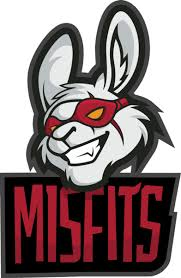
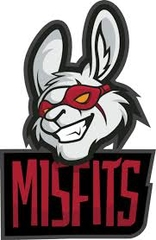
'***'

diff --git a/my interres.html b/my interres.html
@@ -38,17 +38,31 @@
   </nav>
 <div class="container">
   <h1>Мої зацікавлення</h1>
-  <div class="jumbotron">
-            <img src="./images/North.png" width="200" height="200">
-            <img src="./images/697v5pz4c9rvyvmw8hx4.gif" width="200" height="200">
-            <img src="./images/Natusvincerelogo.jpg" width="200" height="200">
-            <img src="./images/astralis.png" width="200" height="200">
-            <img src="./images/VP.png" width="200" height="200">
-            <img src="./images/SpaceS.png" width="200" height="200">
-            <img src="./images/MISFITS.jpg" width="200" height="200">
-            <img src="./images/images.jpg" width="200" height="200">
-            <img src="./images/G2.jpg" width="200" height="200">
-            <img src="./images/FAZE.png" width="200" height="200">
+  <div class="jumbotron hobbi">
+    <div class="row">
+      <div class="col-md-4">
+        <img src="./images/north.jpg" class="img-responsive">
+      </div>
+      <div class="col-md-4 text-center" >
+          <img src="./images/g2.jpg" class="img-responsive">
+        </div>
+      <div class="col-md-4 text-center" >
+        <img src="./images/navi.jpg" class="img-responsive">
+      </div>
+    </div>
+    <div class="row">
+      <div class="col-md-4">
+        <img src="./images/astralis.jpg" class="img-responsive">
+      </div>
+      <div class="col-md-4 text-center" >
+          <img src="./images/spases.jpg" class="img-responsive">
+        </div>
+      <div class="col-md-4 text-center" >
+        <img src="./images/misfits.jpg" class="img-responsive">
+      </div>
+    </div>
+  </div>
+  </div>
   </div>
 </body>
 </html>

diff --git a/profile.html b/profile.html
@@ -7,7 +7,6 @@
   <meta name="viewport" content="width=device-width, initial-scale=1.0">
   <meta http-equiv="X-UA-Compatible" content="ie=edge">
   <title>Homework</title>
-  <link rel="stylesheet" href="style.css">
   <link rel="stylesheet" href="https://maxcdn.bootstrapcdn.com/bootstrap/3.3.7/css/bootstrap.min.css">
 
   <!-- jQuery library -->
@@ -39,8 +38,8 @@
 <div class="container">
   <h1>Профіль</h1>
   <div class="jumbotron">
-    <h1>VovaGrigorev</h1>
-    <p>Lorem ipsum dolor sit amet, consectetur adipisicing elit, sed do eiusmod tempor incididunt ut labore et dolore magna aliqua. Ut enim ad minim veniam, quis nostrud exercitation ullamco laboris nisi ut aliquip ex ea commodo consequat. Duis aute irure dolor in reprehenderit in voluptate velit esse cillum dolore eu fugiat nulla pariatur. Excepteur sint occaecat cupidatat non proident, sunt in culpa qui officia deserunt mollit anim id est laborum.</p>
+    <h1>Vova Grigorev</h1>
+    <p>Пам'ятаю в дитинстві я вдарився головою з тих пір я не відчуваю волосся.</p>
   </div>
 </body>
 </html>

diff --git a/contakt.html b/contakt.html
@@ -7,7 +7,6 @@
   <meta name="viewport" content="width=device-width, initial-scale=1.0">
   <meta http-equiv="X-UA-Compatible" content="ie=edge">
   <title>Homework</title>
-  <link rel="stylesheet" href="style.css">
   <link rel="stylesheet" href="https://maxcdn.bootstrapcdn.com/bootstrap/3.3.7/css/bootstrap.min.css">
 
   <!-- jQuery library -->
@@ -39,9 +38,16 @@
 <div class="container">
   <h1>Контакти</h1>
   <div class="jumbotron">
-    <img src="./images/lol.png" height="130" width="130">
-    <p>skype: I dont know my skype(((</p>
-    <p>tel:0972281337</p>
+    <div class="row">
+      <div class="col-md-4 col-sm-4 col-xs-12">
+    <img src="./images/lol.png" class="img-rounded img-responsive" height="200" width="200">
+  </div>
+  <div class="col-md-8 col-sm-8 col-xs-12">
+    <img src="./images/xex.png" width="15" height="15">  
+    <a class="lol">skype:I dont know my skype(((</a>
+    <br>
+    <img src="./images/xx.png" width="15" height="15">
+    <a class="kek">tel:0972281337</a>
   </div>
 </body>
 </html>

diff --git a/style.css b/style.css
@@ -1,41 +1,3 @@
-span {
-  width: 50%;
-  height: 50%;
-}
-div.image_gallery {
-    margin: 0 auto;
-    width: 1000px;
-    text-align: center;
-    max-width: 90%;
-    min-width: 500px;
-}
-img {
-    float: left;
-    max-width: 31%;
-
-    padding: 1%;
-}
-@media screen and (max-width: 768px) {
-    div.image_gallery {
-        min-width: 320px;
-    }
-    img {
-        max-width: 48%;
-        height: auto;
-        padding: 1%;
-    }
-}
-@media screen and (max-width: 480px) {
-    div.image_gallery {
-        width: 320px;
-        min-width: 320px;
-    }
-    img {
-        max-width: 98%;
-        height: auto;
-        padding: 1%;
-    }
-}
-.container-3 {
-  
+.hobbi .img-responsive{
+  margin: 0 auto;
 }
